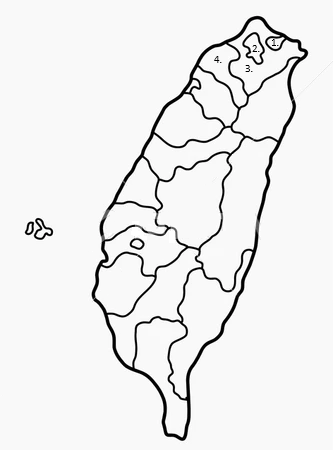
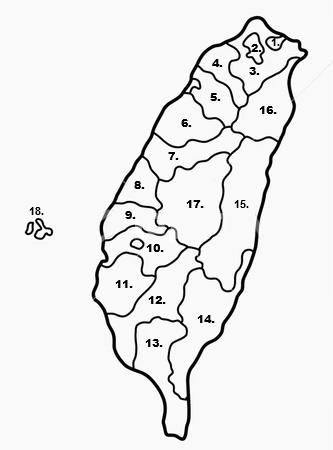
feat 18 cities on map

diff --git a/ImagePixelDemo/Form1.cs b/ImagePixelDemo/Form1.cs
@@ -18,8 +18,8 @@ namespace ImagePixelDemo
         Label label_result;
 
         Bitmap bitmap;
-        string[] nation_names = new string[] { "Keelung", "Taipei", "New Taipei", "Taoyuan" };
-        int[] nation_xy = new int[] { 273, 42, 254, 48, 248, 68, 216, 60 };
+        string[] nation_names = new string[] { "Keelung", "Taipei", "New Taipei", "Taoyuan", "Hsinchu", "Miaoli", "Taichung", "Changhua", "Yunlin", "Chiayi", "Tainan", "Kaohsiung", "Pingtung", "Taitung", "Hualien", "Yilan", "Nantou", "Penghu" };
+        int[] nation_xy = new int[] { 274, 42, 255, 47, 253, 71, 214, 62, 213, 96, 185, 122, 172, 155, 137, 184, 128, 214, 153, 247, 122, 284, 155, 299, 152, 342, 204, 318, 239, 204, 265, 109, 193, 204, 34, 210 };
         int options_number = 3;
 
         public Form1()
@@ -31,6 +31,7 @@ namespace ImagePixelDemo
         }
         void InitUI()
         {
+            Console.WriteLine($"{"nation_names.Length:"}{nation_names.Length})");
             this.Text = "Image Pixel Demo";
             this.Width = 800;
             this.Height = 600;
@@ -236,11 +237,11 @@ namespace ImagePixelDemo
             int choose_answer = cards_options[choose_option_index];
             if (choose_answer == answer)
             {
-                update_result($"Correct! {nation_names[choose_answer]}({choose_answer})");
+                update_result($"Correct! {nation_names[choose_answer]}");
             }
             else
             {
-                update_result($"False! not {nation_names[choose_answer]}({choose_answer}), answer is {nation_names[answer]}({answer})");
+                update_result($"False! not {nation_names[choose_answer]}({choose_answer + 1}), answer is {nation_names[answer]}({answer + 1})");
             }
         }
     }
